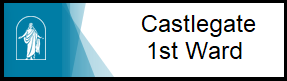
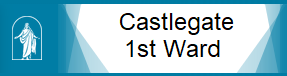
Update

diff --git a/Personal/index.html b/Personal/index.html
@@ -1,6 +1,7 @@
 <!DOCTYPE html>
 <html lang="en">
 <head>
+
     <meta charset="UTF-8">
     <meta name="viewport" content="width=device-width, initial-scale=1.0">
     <title>Personal Site | Home</title>
@@ -15,9 +16,66 @@
                 <a href="index.html">Home</a>
                 <a href="activities.html">Activities</a>
                 <a href="resources.html">Resources</a>
-
             </nav>
         </header> 
+        <div id="ward">
+            <div id="ward-box">
+                <img id="ward-img" src="images/CG.jpg" alt="Castlegate 1st">
+            </div>
+            <section id="home-msg">
+                <h1 class="home-title">Castlegate 1st Ward</h1>
+                <p>Church Services are every Sunday beginning at 9:30am <br>
+                    <u>2717 E Ocotillo Rd, San Tan Valley, AZ 85140</u></p>
+            </section>
+            <hr>
+        </div>
+        <main class="home-grid">
+            <section class="sacrament_program">
+                <h2>Sacrament Meeting Program </h2>
+                <p> Date:<br>
+                    Presiding:<br>
+                    Conducting:<br>
+                    Pianist:<br>
+                    Chorister:<br>
+                    *Announcements*<br>
+                    Opening Hymn:<br>
+                    Invocation<br>
+                    *Ward Business*<br>
+                    Sacrament Hymn:<br>
+                    *Administration of the Sacrament*<br>
+                    Speaker:<br>
+                    Speaker:<br>
+                    Intermediate Hymn:<br>
+                    Speaker:<br>
+                    Closing Hymn:<br>
+                    Benediction: </p>
+            </section>
+            <hr>
+            <section class="second_hour">
+                <h2>Classes (2nd Hour) </h2>
+                <p>1st and 3rd Sundays: Sunday School (10:30 am)<br>
+                    2nd and 4th Sundays: Priesthood, Relief Society, Young Women's (10:30 am) <br>
+                    Every Sunday: Primary (10:30 am) 
+                </p>
+            </section>
+            <hr>
+            <section class="ward_announcements">
+                <h2>Ward Announcements</h2>
+                <p>Friday July 21st is our Ward Temple Day.  <br>
+                    Saturday August 5th is Queen Creek AZ North Stake blood drive.
+                </p> 
+            </section>
+            <div id="background"></div>
+            <img id="temple-img" src="images/AZ.jpg" alt="Temple">   
+            <div class="msg">
+                <p>Regular temple attendance is one of the simplest ways you can bless 
+                those who are waiting in the spirit world. If you live near a temple, 
+                partake of the opportunity to go often and regularly. - David B. Haight
+                </p>
+            </div>
+
+        </main>
+    </div>
         <footer>
             <p>Personal Site &copy; 2023 - Troy Waite</p>
             <p><a href="site-plan.html">Site Plan</a></p>

diff --git a/Personal/site-plan.html b/Personal/site-plan.html
@@ -58,7 +58,7 @@
       <table class="colors">
         <tr><th>Primary</th><th>Secondary</th><th>Accent 1</th><th>Accent 2</th></tr>
         <!-- Replace the numbers in the boxes below with your hex color codes. Then switch to the site-plan.css file and change your colors there as well. -->
-        <tr><td class="primary">[#363946]</td><td class="secondary">[#819595]</td><td class="accent1">[#B1B6A6]</td><td class="accent2"></td></tr>
+        <tr><td class="primary">[#396E94]</td><td class="secondary">[#B1B6A6]</td><td class="accent1">[#819595]</td><td class="accent2"></td></tr>
       </table>
 
       <!-- ------------------------Step 9------------------------------ -->
@@ -210,7 +210,7 @@
       <p>         
         Home screen to display the sacrament program, Links along top will allow for selecting the 2 pages of Activities and Resources
       </p>
-      <img src="images/Page 1.bmp" alt="home page wireframe">
+      <img src="images/Page 1.PNG" alt="home page wireframe">
 
       <h3>Activities</h3>
       <p>         

diff --git a/Personal/styles/styles.css b/Personal/styles/styles.css
@@ -1,0 +1,57 @@
+#content {
+    max-width: 1600px;
+    margin: 0 auto;
+    background-color:#f1f5f8;
+}
+header {
+    background-color:#396E94;
+    display: grid;
+    grid-template-columns: 150px auto;
+}     
+nav {
+    display: flex;
+    justify-content: space-around;
+}        
+nav a{
+    text-align: center;
+    color: white;
+    text-decoration:none;
+    padding: 30px
+}
+nav a:hover {
+    background-color: #B1B6A6;
+    color: black;
+}  
+.logo {
+    width: 280px;
+}   
+#ward-img {
+    width: 100%;
+}
+#background {
+    height: 725px;
+    background-color:#819595;
+    grid-column: 1/11;
+    grid-row: 4/9;
+}  
+footer{
+    background-color:#396E94;
+    color: white;
+    font-size: 1.2em;
+    padding: 25px 50px;
+    margin-top: 25px; 
+    display: flex;
+    justify-content: space-around;
+    align-items: center;
+}
+footer a{
+    color: white;  
+    text-decoration: none; 
+}
+footer p {
+    font-size: 1.2em;
+} 
+footer p a:hover{
+    color: #d9c2a3;   
+    text-decoration: underline; 
+}

diff --git a/Personal/styles/site-plan.css b/Personal/styles/site-plan.css
@@ -5,7 +5,7 @@ Fonts are separated by a | */
 
 :root {
   /* change the values below to your colors from your palette */
-  --primary-color: #363946   ;
+  --primary-color: #396E94  ;
   --secondary-color: #B1B6A6 ;
   --accent1-color: #819595;
   --accent2-color: white;
@@ -19,11 +19,11 @@ Fonts are separated by a | */
   --headline-color-on-color: white; /* headlines on a colored background */ 
   --paragraph-color-on-white: #396E94; /* paragraph text on a white background */ 
   --paragraph-color-on-color: white; /* paragraph text on a colored background */ 
-  --paragraph-background-color: #396E94  ;
-  --nav-link-color: #396E94;
-  --nav-background-color: #B1B6A6;
-  --nav-hover-link-color: white;
-  --nav-hover-background-color: #396E94;
+  --paragraph-background-color: #819595  ;
+  --nav-link-color: white;
+  --nav-background-color: #396E94;
+  --nav-hover-link-color: black;
+  --nav-hover-background-color: #B1B6A6;
 }
 
 /*  Look around below...but DON'T CHANGE ANYTHING! */
